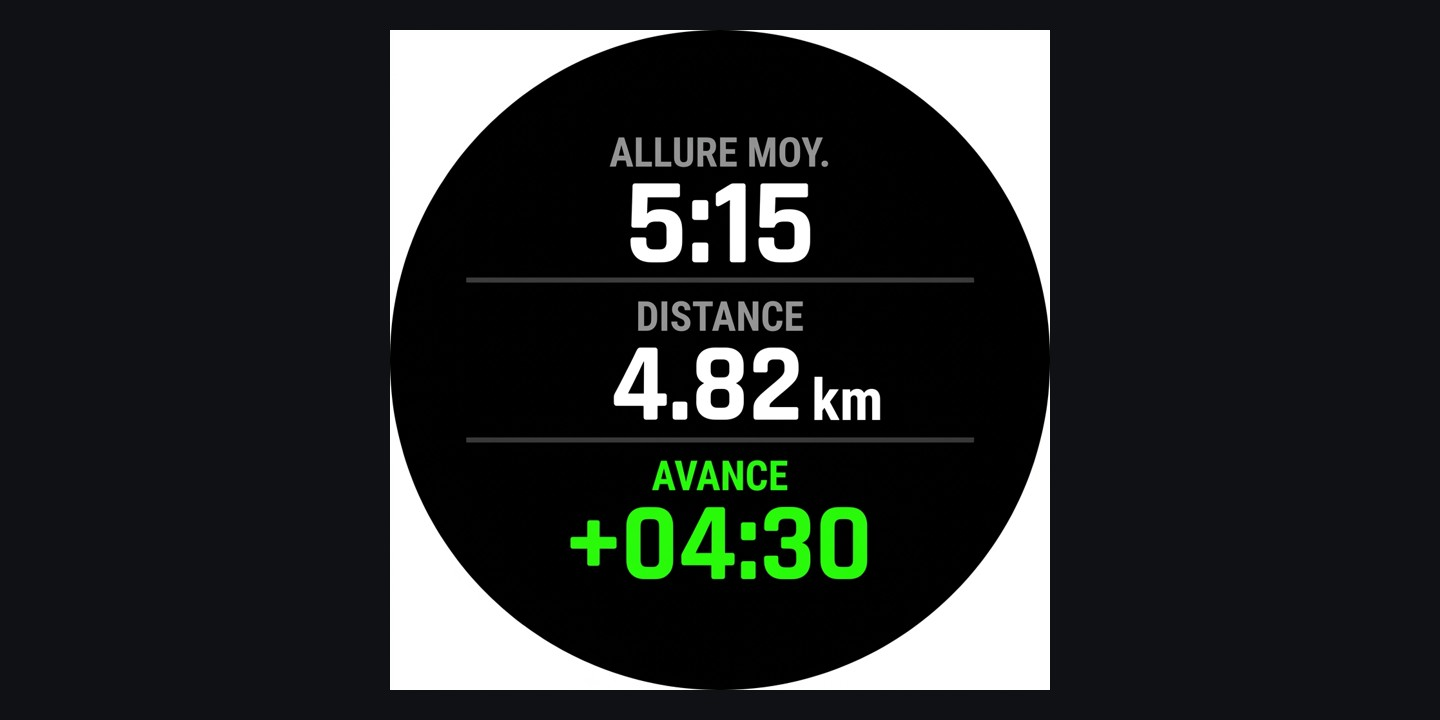
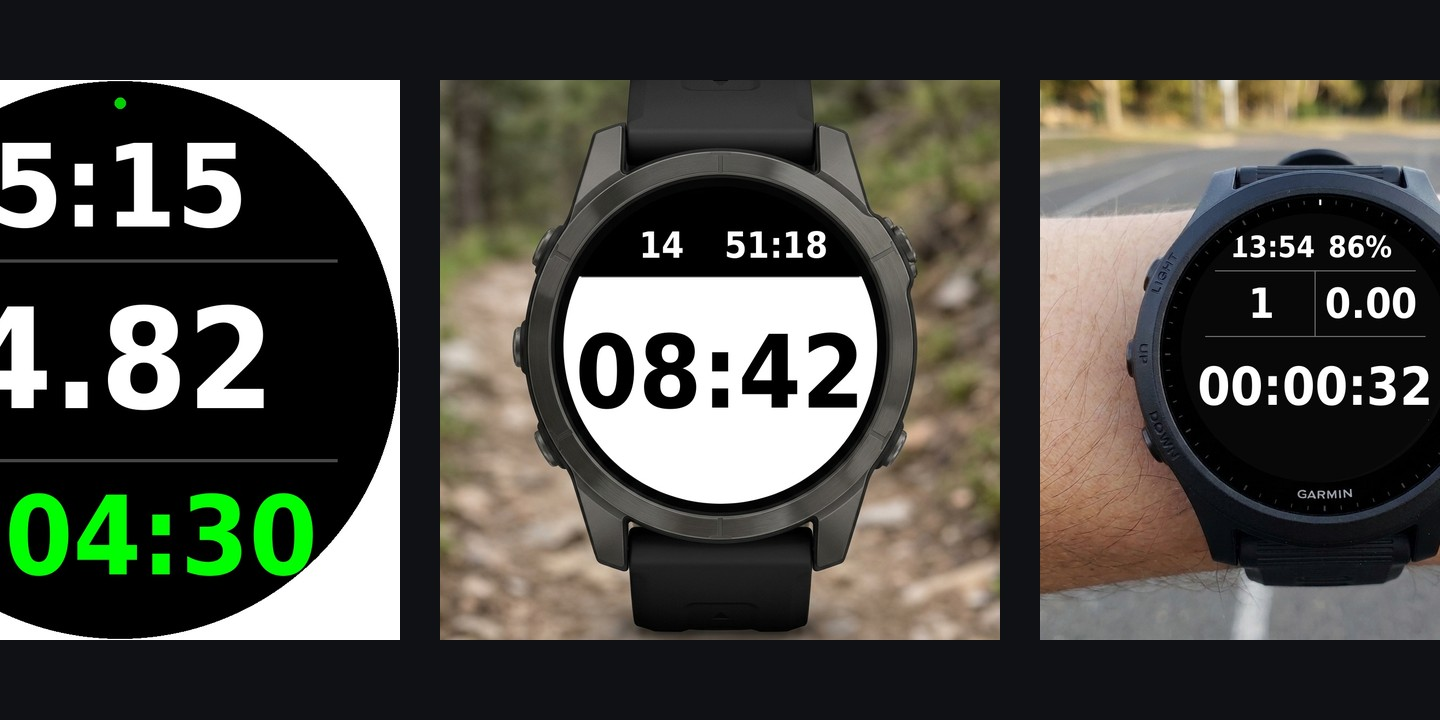
feat(little): pure numeric giant display without labels (6.706km / 60min official mode)

diff --git a/README.md b/README.md
@@ -1,12 +1,12 @@
-# Garmin Backyard Ultra App (v1.0.0)
+# Garmin Backyard Ultra - Version Little (Chiffres Géants / Sans Texte)
 
-Application autonome (**Watch-App**) Connect IQ pour montres Garmin, spécialement conçue pour les épreuves de **Backyard Ultra** (boucle de 6,706 km à parcourir en moins d'une heure, avec départ toutes les heures).
+Application autonome (**Watch-App**) Connect IQ pour montres Garmin, édition **Little** (affichage minimaliste **100 % données pures sans libellés de texte ni unités** pour une taille de police maximale), spécialement conçue pour les épreuves de **Backyard Ultra** (boucle de 6,706 km à parcourir en moins d'une heure, avec départ toutes les heures).
 
 Lien du dépôt : [https://github.com/Cynewulf89/garmin-app-backyard](https://github.com/Cynewulf89/garmin-app-backyard)
 
 ---
 
-## 📱 Aperçu des Écrans
+## 📱 Aperçu des Écrans (Version Little - Chiffres Géants)
 
 | Écran 1 (En Avance) | Écran 1 (En Retard) | Écran 1 (Repos / Terminé) | Écran 2 (Stats & Batterie) |
 | :---: | :---: | :---: | :---: |
@@ -20,44 +20,34 @@ Lien du dépôt : [https://github.com/Cynewulf89/garmin-app-backyard](https://gi
 - **Boutons UP / DOWN** : Basculent entre l'**Écran 1** (gestion de la boucle) et l'**Écran 2** (statistiques globales).
 - **Bouton BACK** : Met en pause et ouvre également le menu de clôture d'activité si une session est active.
 
+### Écran 1 : Gestion de la Boucle (Affichage Géant Sans Texte)
 
-### Écran 1 : Gestion de la Boucle (Mode Course)
+Tous les intitulés (`ALLURE MOY.`, `DISTANCE`, `AVANCE`/`RETARD`) et l'unité `km` sont supprimés pour afficher les données le plus gros possible :
 
-- **ALLURE MOY.** : Allure moyenne calculée sur la boucle en cours (min/km).
-- **DISTANCE** : Kilométrage parcouru sur la boucle actuelle (0 à 6,71 km).
-- **AVANCE / RETARD (Delta)** :
-  - **Vert (+)** si vous êtes en avance sur l'allure cible pour finir la boucle en moins de 60 minutes.
-  - **Rouge (-)** si vous êtes en retard.
-- **Réinitialisation automatique** : Cet écran se remet à zéro automatiquement à chaque heure pile.
+- **Haut (`FONT_LARGE`)** : Allure moyenne sur la boucle en cours (`MM:SS`).
+- **Milieu (`FONT_NUMBER_HOT`)** : Distance parcourue sur la boucle actuelle en chiffres géants purs sans unité (`0.00` à `6.71`).
+- **Bas (`FONT_LARGE`)** : Avance (**Vert `+MM:SS`**) ou Retard (**Rouge `-MM:SS`**) par rapport à la cible de 60 minutes.
+- **Réinitialisation automatique** : Remise à zéro et bascule automatique sur l'Écran 1 à chaque heure pile.
 
 ### Écran de Pause automatique (Dès 6,706 km atteints)
 
-- **Déclenchement automatique** : Dès que les 6,706 km du tour sont complétés, l'enregistrement GPS est automatiquement mis en pause pour éviter d'enregistrer des distances parasites au ravitaillement.
-- **Quart supérieur (1/4 - fond noir)** :
-  - Nombre de tours complétés : **X TOURS TERMINÉS** .
-  - Temps du tour tout juste achevé : Icône chronomètre ⏱ et temps (**MM:SS**).
-- **Trois quarts inférieurs (3/4 - fond blanc)** :
-  - Libellé **TEMPS DE REPOS** en noir.
-  - Décompte géant en noir (**MM:SS**) du temps de repos restant avant le coup d'envoi de l'heure suivante.
-- **Alarme unique (Vibration)** : Une vibration distincte retentit automatiquement **1 minute** avant le départ du prochain tour (à 01:00 restante au repos).
-- **Reprise automatique** : À l'heure pile suivante, l'enregistrement GPS reprend automatiquement et l'écran repasse sur le mode course normal.
+- **Déclenchement automatique** : Dès que les 6,706 km du tour sont atteints, l'enregistrement GPS se met en pause et l'écran bascule automatiquement sur l'affichage de repos.
+- **Quart supérieur (1/4 - fond noir)** : Uniquement le nombre de tours terminés à gauche et le chrono du tour terminé `MM:SS` à droite (`FONT_MEDIUM`), sans texte ni symbole superflu.
+- **Trois quarts inférieurs (3/4 - fond blanc)** : Uniquement le décompte géant (`FONT_NUMBER_HOT`) du temps de repos restant (**MM:SS**) en noir sur fond blanc.
+- **Alarme unique (Vibration)** : Une vibration distincte retentit automatiquement **1 minute** avant le départ du prochain tour (à `01:00` restante au repos).
+- **Reprise automatique** : À l'heure pile suivante, le GPS reprend et l'écran repasse automatiquement sur le mode course.
 
-### Écran 2 : Statistiques Globales & Autonomie
+### Écran 2 : Statistiques Globales & Autonomie (Données Pures)
 
-- **En-tête** :
-  - **Batterie** : Icône et pourcentage restant affichés tout en haut.
-  - **Heure actuelle** : Affichage discret (**HH:MM**) sous la batterie.
-- **Milieu** :
-  - **TOUR** : Numéro du tour actuel (1, 2, 3...).
-  - **TOTAL KM** : Kilométrage total cumulé depuis le départ de l'épreuve.
-- **Bas de l'écran** :
-  - **TEMPS TOTAL** : Grand chronomètre complet (**HH:MM:SS**) affiché en chiffres géants (`FONT_NUMBER_HOT`) pour une lisibilité maximale en course.
+- **En-tête (`FONT_MEDIUM`)** : Heure actuelle (**HH:MM**) à gauche et pourcentage de batterie (**XX%**) côte à côte à droite, sans icône de batterie.
+- **Milieu (`FONT_LARGE`)** : Numéro du tour en cours (`1`, `2`...) à gauche et kilométrage total cumulé (`0.00`) à droite, sans intitulés ni unité `km`.
+- **Bas (`FONT_NUMBER_MEDIUM`)** : Chronomètre global ininterrompu (**HH:MM:SS**) affiché en taille maximale respectant l'arc inférieur des écrans ronds.
 
 ---
 
 ## 📊 Rendu dans Garmin Connect (Analyse des Circuits)
 
-Grâce aux champs personnalisés Connect IQ (**FitContributor**), chaque tour de 60 minutes est automatiquement enrichi dans le tableau des circuits de l'application et du site web Garmin Connect :
+Grâce aux champs personnalisés Connect IQ (**FitContributor**), chaque tour de 60 minutes est automatiquement enrichi dans Garmin Connect :
 
 ![Garmin Connect Laps](screenshots/garmin_connect_laps.jpg)
 
@@ -72,24 +62,8 @@ Grâce aux champs personnalisés Connect IQ (**FitContributor**), chaque tour de
 ### Prérequis
 
 - Une montre Garmin compatible : **Forerunner 945**, **Fenix 6**, **Enduro**, ou **Epix Pro (51mm)**.
-- [Garmin Express](https://www.garmin.com/express/) sur ordinateur ou smartphone avec Garmin Connect.
 
-### Méthode 1 : Fichier `.prg` direct (Recommandé)
+### Installation manuelle (`.prg`)
 
-1. Téléchargez le fichier correspondant à votre modèle (ex : `backyard-fr945.prg` pour Forerunner 945) depuis les [Releases](https://github.com/Cynewulf89/garmin-app-backyard/releases).
-2. Connectez la montre en USB à votre PC.
-3. Copiez le fichier dans le dossier `/GARMIN/APPS/` de la montre en le renommant `backyard.prg`.
-4. Éjectez l'appareil en toute sécurité puis redémarrez la montre.
-5. L'application **Backyard Ultra** apparaît dans votre liste d'activités (ou sous "Ajouter" tout en bas).
-
-### Méthode 2 : Compilation via VS Code (Développeurs)
-
-1. Clonez le dépôt :
-
-   ```bash
-   git clone https://github.com/Cynewulf89/garmin-app-backyard.git
-   ```
-
-2. Ouvrez le dossier dans VS Code.
-3. Exécutez la commande `Monkey C: Build Current Project` (`Ctrl+Shift+P`).
-4. Branchez votre montre en USB et copiez le fichier `.prg` compilé dans le dossier `GARMIN/APPS/` de l'appareil.
+1. Téléchargez le fichier correspondant à votre modèle (ex : `backyard-little-fr945.prg`) depuis les [Releases](https://github.com/Cynewulf89/garmin-app-backyard/releases).
+2. Connectez la montre en USB à votre PC et copiez le fichier dans `/GARMIN/APPS/`.
